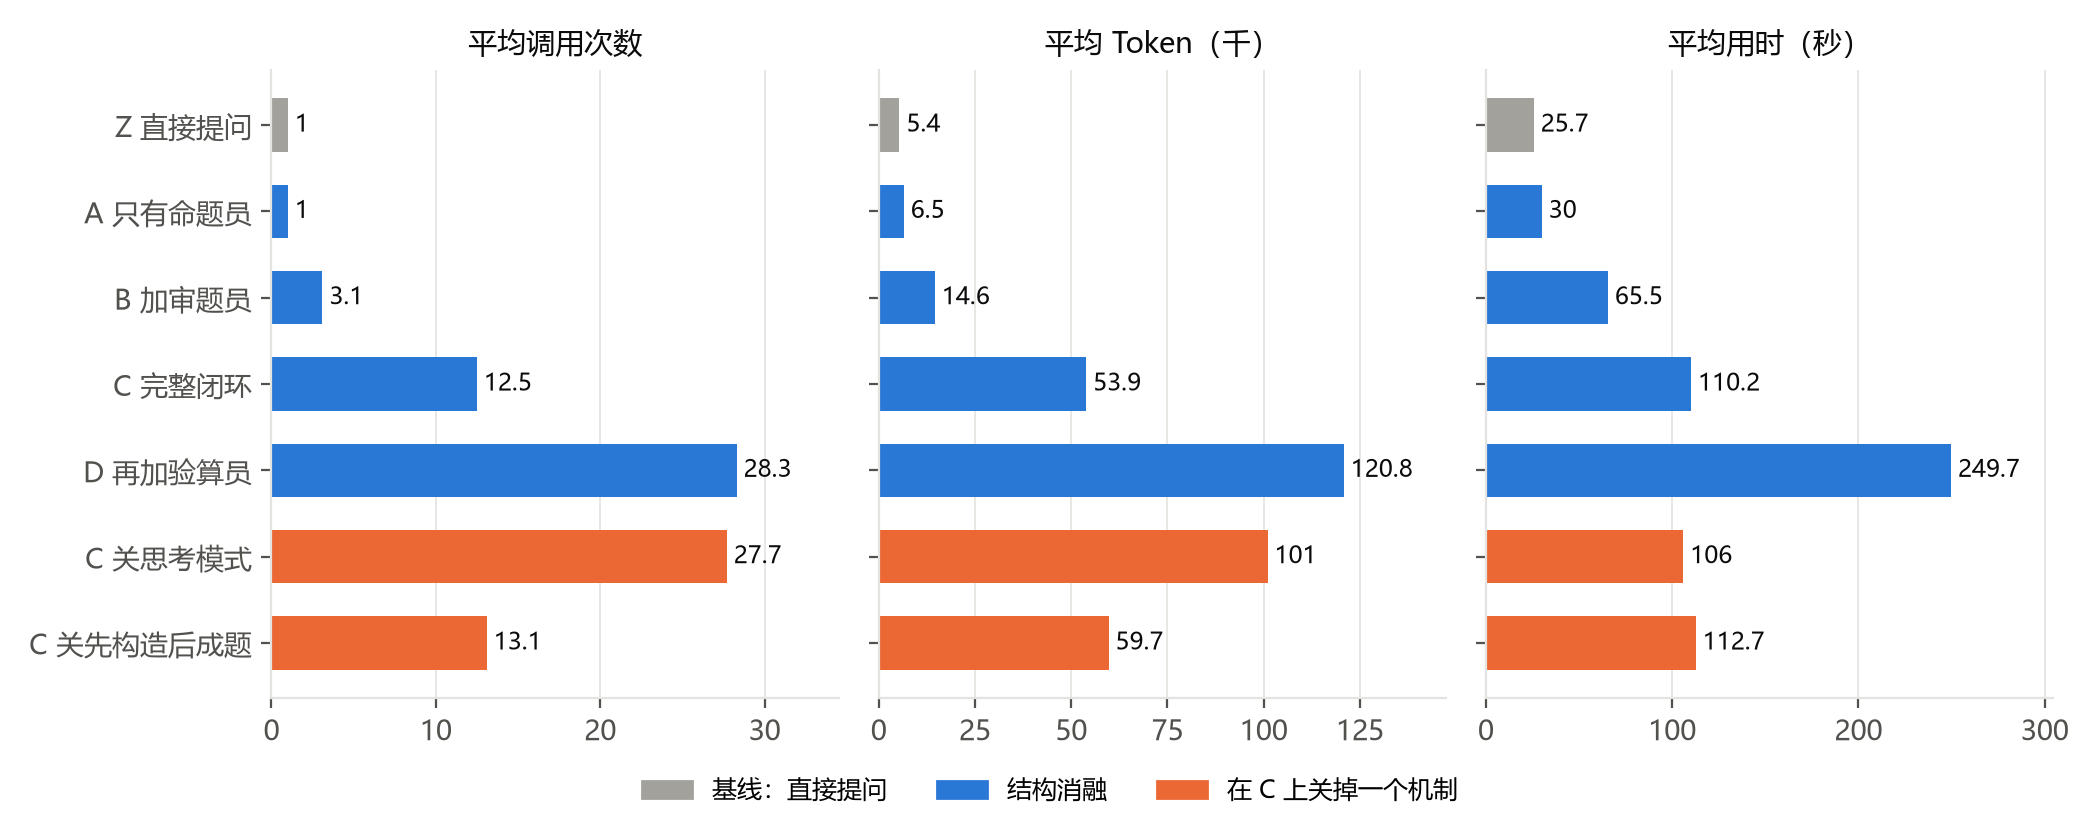
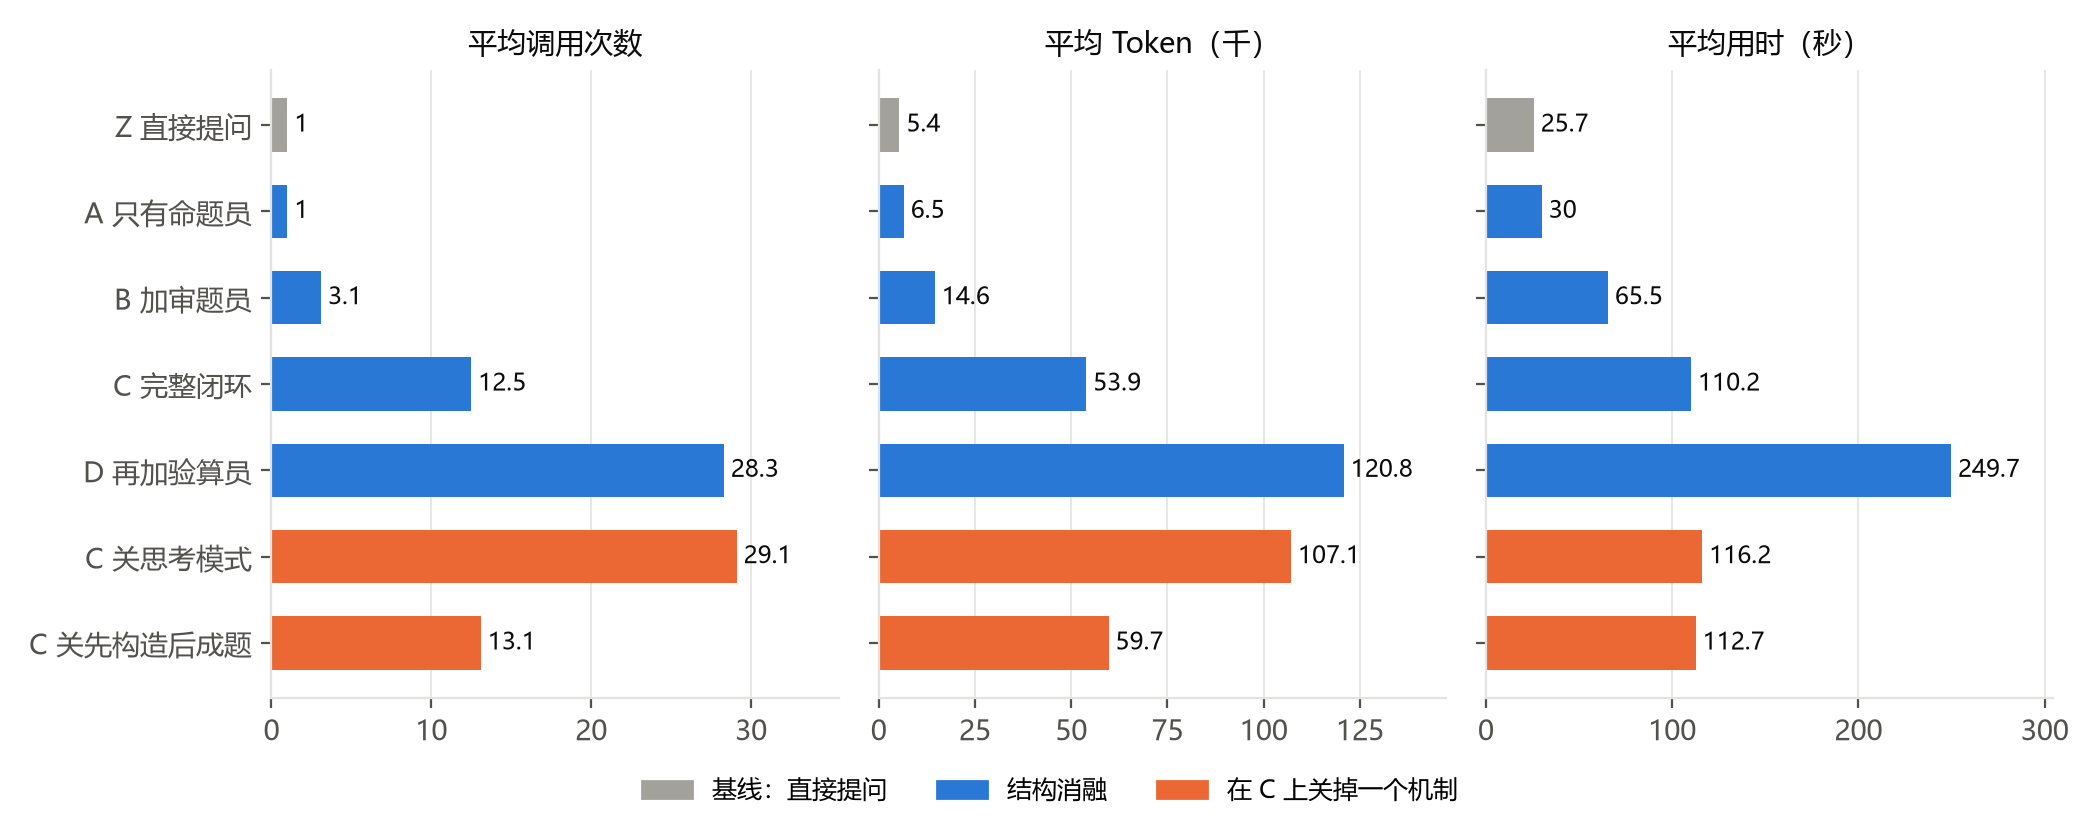
对比实验：补跑网络出错的那 1 次，结果表更新
- C 关思考模式 卷四-19 补跑，调用 71 次、花 $0.07 后到上限仍没出成；这组现在是 30 次里 23 道可用
- 补跑时出题流程（mingti）和之前一样，记的代码版本是 a6b4e1c

diff --git a/eval/results/small/tables.md b/eval/results/small/tables.md
@@ -1,4 +1,4 @@
-# 结果表（small，209 次出题）
+# 结果表（small，210 次出题）
 
 | 配置 | 题数 | 交付率 | 答案正确率 | 可用率 | 题目不成立 | 平均调用 | 平均 Token | 平均用时 | 每道可用题花费 | 超纲（交付/拦下） | 考点符合 | 难度差≤1 | 和 C 逐题比（C 独有/它独有，p） |
 |---|---|---|---|---|---|---|---|---|---|---|---|---|---|
@@ -7,7 +7,7 @@
 | B 加审题员 | 30 | 100% | 90%（27/30） | 90% | 0 | 3.1 | 14.6k | 65.5 秒 | $0.0081 | 0/0 | 97% | 100% | 3/0，p=0.25 |
 | C 完整闭环 | 30 | 100% | 100%（30/30） | 100% | 0 | 12.5 | 53.9k | 110.2 秒 | $0.0160 | 0/0 | 97% | 100% | — |
 | D 再加验算员 | 30 | 100% | 100%（30/30） | 100% | 0 | 28.3 | 120.8k | 249.7 秒 | $0.0360 | 0/0 | 100% | 100% | 0/0，p=1.0 |
-| C 关思考模式 | 29 | 93% | 85%（23/27） | 79% | 3 | 27.7 | 101.0k | 106.0 秒 | $0.0262 | 0/0 | 89% | 100% | 6/0，p=0.031 |
+| C 关思考模式 | 30 | 90% | 85%（23/27） | 77% | 3 | 29.1 | 107.1k | 116.2 秒 | $0.0292 | 0/0 | 89% | 100% | 7/0，p=0.016 |
 | C 关先构造后成题 | 30 | 100% | 100%（30/30） | 100% | 0 | 13.1 | 59.7k | 112.7 秒 | $0.0168 | 0/0 | 97% | 100% | 0/0，p=1.0 |
 
 ## 1–3 星
@@ -31,7 +31,7 @@
 | B 加审题员 | 16 | 100% | 88%（14/16） | 88% | 0 | 2.9 | 15.3k | 70.0 秒 | $0.0090 | 0/0 | 94% | 100% | 2/0，p=0.5 |
 | C 完整闭环 | 16 | 100% | 100%（16/16） | 100% | 0 | 13.6 | 69.8k | 146.2 秒 | $0.0214 | 0/0 | 94% | 100% | — |
 | D 再加验算员 | 16 | 100% | 100%（16/16） | 100% | 0 | 33.6 | 163.3k | 341.1 秒 | $0.0496 | 0/0 | 100% | 100% | 0/0，p=1.0 |
-| C 关思考模式 | 15 | 87% | 77%（10/13） | 67% | 2 | 33.9 | 142.1k | 146.8 秒 | $0.0441 | 0/0 | 85% | 100% | 5/0，p=0.062 |
+| C 关思考模式 | 16 | 81% | 77%（10/13） | 62% | 2 | 36.2 | 150.9k | 163.4 秒 | $0.0511 | 0/0 | 85% | 100% | 6/0，p=0.031 |
 | C 关先构造后成题 | 16 | 100% | 100%（16/16） | 100% | 0 | 15.2 | 82.4k | 156.0 秒 | $0.0234 | 0/0 | 100% | 100% | 0/0，p=1.0 |
 
 ## 图
